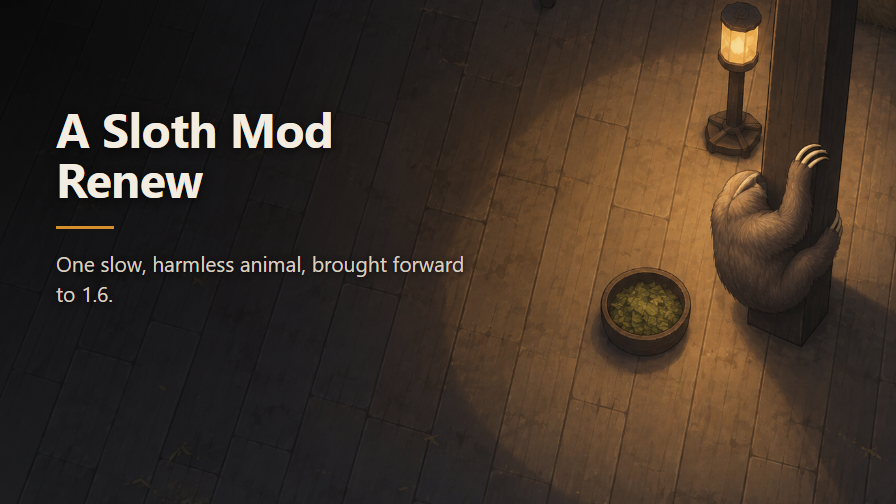
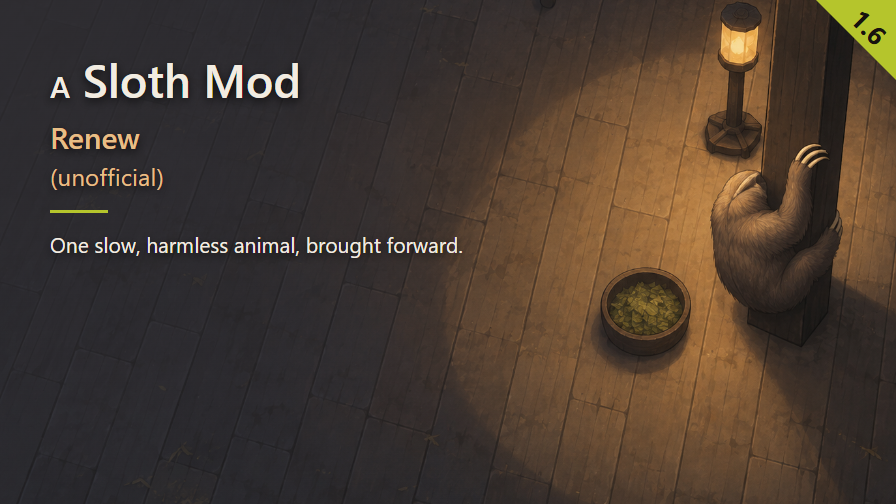
Recompose preview with title hierarchy and version badge

Changed region(s): [[0.0, 0.0, 0.5312, 0.625], [0.9062, 0.0, 1.0, 0.1488]]

diff --git a/Art/preview.html b/Art/preview.html
@@ -1,50 +1,34 @@
-<!doctype html><meta charset="utf-8">
-<!--
-  Engraving page for Mod/About/Preview.png, per STYLE_RIMWORLD.md.
-
-  Rasterised with headless Chrome at 896x504, so the glyphs are composed at final size and never
-  resampled. The background is Preview-source.png at full resolution, scaled here rather than
-  beforehand: starting from an already-reduced Preview.png would resample the picture twice.
-
-    "/c/Program Files/Google/Chrome/Application/chrome.exe" --headless --disable-gpu \
-      --hide-scrollbars --window-size=896,504 --screenshot=Mod/About/Preview.png Art/preview.html
-
-  The source is 1374x1145, close to 6:5, so the crop is the whole problem. Fitting 896x504 keeps
-  the full width and 773 source rows out of 1145, and the scene occupies 859 of them: from the
-  walking settler at 3% down to the food bowl at 78%. Something has to go. Clipping the settler
-  leaves a headless figure and clipping the sloth mutilates the subject, so the crop starts just
-  below the settler's feet and drops him entirely. The cost is the second vivid note, his red
-  coat: the lamp pool now carries the colour alone, which the style allows - two is a ceiling,
-  not a quota.
--->
+<!doctype html>
+<html lang="en"><head><meta charset="utf-8"><title>Sloth preview</title>
 <style>
-  * { margin:0; padding:0; box-sizing:border-box; }
-  html,body { width:896px; height:504px; overflow:hidden; background:#000; }
-  .stage { position:relative; width:896px; height:504px;
-           font-family:"Segoe UI",system-ui,sans-serif; }
-
-  /* Full width, vertical crop, anchored near the bottom of the croppable band: the visible rows
-     run from just under the settler's feet down to the empty floor below the bowl. */
-  .shot { position:absolute; inset:0; width:896px; height:504px;
-          object-fit:cover; object-position:50% 86%; }
-
-  /* Repository standard: radial darkening from the top-left, nil at 74%. The scene's own lamp
-     pool sits low and right, so the title lands on floor that was already the darkest thing. */
-  .veil { position:absolute; inset:0;
-    background: radial-gradient(circle at 0% 0%, rgba(6,5,4,.86) 0%, rgba(6,5,4,0) 74%); }
-
-  .text { position:absolute; left:56px; top:104px; width:430px; }
-  h1 { font-size:48px; line-height:1.04; font-weight:700; color:#f2ece1;
-       letter-spacing:-.5px; text-shadow:0 2px 10px rgba(0,0,0,.7); }
-  .rule { width:58px; height:3px; background:#D68F2C; margin:22px 0 20px; }
-  p { font-size:21px; line-height:1.42; color:#d8cfc0; text-shadow:0 1px 6px rgba(0,0,0,.75); }
-</style>
-<div class="stage">
-  <img class="shot" src="Preview-source.png">
-  <div class="veil"></div>
-  <div class="text">
-    <h1>A Sloth Mod<br>Renew</h1>
-    <div class="rule"></div>
-    <p>One slow, harmless animal, brought forward to 1.6.</p>
-  </div>
-</div>
+*{margin:0;padding:0;box-sizing:border-box}
+html,body,.stage{width:896px;height:504px;overflow:hidden}
+.stage{position:relative;font-family:"Segoe UI",system-ui,sans-serif}
+.shot{position:absolute;inset:0;width:896px;height:504px;object-fit:cover;object-position:50% 86%}
+.veil{position:absolute;inset:0;background:radial-gradient(circle at 0% 0%,rgb(var(--veilRGB) / .86) 0%,rgb(var(--veilRGB) / 0) 74%)}
+.text{position:absolute;left:50px;top:54px;color:var(--inkPrimary);text-shadow:0 3px 10px rgba(0,0,0,.75)}
+h1{font-size:46px;font-weight:600;line-height:1.1;letter-spacing:0}
+h1 .link,h1 .suffix{font-size:.65em}
+h1 .suffix{color:var(--inkSecondary)}
+.tag{margin-top:8px;font-size:24px;font-weight:400;line-height:1.1;letter-spacing:.2px;color:var(--inkSecondary)}
+.rule{width:58px;height:3px;margin:20px 0 16px;background:var(--accent)}
+p{width:430px;font-size:21px;font-weight:400;line-height:1.45;letter-spacing:0}
+.badge{position:absolute;right:0;top:0;width:80px;height:80px;background:var(--accent);clip-path:polygon(0 0,100% 0,100% 100%)}
+.version{position:absolute;left:869px;top:27px;transform:translate(-50%,-50%) rotate(45deg);color:var(--badgeInk);font-size:26px;font-weight:700;line-height:1}
+</style></head><body><div class="stage">
+<img class="shot" src="Preview.png" alt=""><div class="veil"></div>
+<div class="text"><h1><span class="link">A</span> Sloth Mod<br><span class="suffix">Renew</span></h1><div class="tag">(unofficial)</div><div class="rule"></div><p>One slow, harmless animal, brought forward.</p></div>
+<div class="badge"></div><div class="version"></div>
+</div><script>
+window.previewReady=(async()=>{
+const palette=await(await fetch('preview-palette.json')).json();
+for(const [key,value] of Object.entries(palette))document.documentElement.style.setProperty('--'+key,value);
+document.documentElement.style.setProperty('--veilRGB',palette.veil.match(/\w\w/g).map(x=>parseInt(x,16)).join(' '));
+const xml=new DOMParser().parseFromString(await(await fetch('../Mod/About/About.xml')).text(),'application/xml');
+const versions=[...xml.querySelectorAll('supportedVersions li')].map(x=>x.textContent.trim()).filter(x=>/^\d+\.\d+(\.\d+)?$/.test(x));
+versions.sort((a,b)=>{const aa=a.split('.').map(Number),bb=b.split('.').map(Number);for(let i=0;i<Math.max(aa.length,bb.length);i++){const d=(aa[i]||0)-(bb[i]||0);if(d)return d;}return 0;});
+if(!versions.length)throw Error('No stable supported version');
+document.querySelector('.version').textContent=versions.at(-1);
+await document.fonts.ready;await document.querySelector('.shot').decode();
+})();
+</script></body></html>

diff --git a/STATUS.md b/STATUS.md
@@ -128,3 +128,37 @@ The continuation statement in README and About.xml permits updating and publishi
 continuation if the maintainer does not respond within a reasonable time, with all credit
 preserved. This is the maintainer's stated condition, not a newly granted licence for the
 original author's assets. This audit does not assign MIT, CC or another licence to them.
+
+## Preview overlay recomposition — 2026-09-12
+
+- Source: `Art/Preview.png`, copied byte-for-byte from the existing text-free
+  `Art/Preview-source.png`. The illustration was retained, not replaced; the original
+  full-resolution file remains available at its existing path. The crop remains at 50% 86%.
+- Composition: `Art/preview.html`; sole colour reference: `Art/preview-palette.json`.
+  Rebuild and checks: `Art/render-preview.cjs` (Node with playwright and sharp, installed
+  Chrome). The HTML loads the palette and reads the highest stable supported version from
+  the shipped `Mod/About/About.xml`; this currently produces the 1.6 badge.
+- Palette rationale: the veil comes from the broad cool, shadowed plank-floor surface.
+  The vivid accent follows the olive-green food in the sloth bowl, with saturation and
+  lightness increased for the rule and badge. This significant feeding detail supplies a
+  yellow-green family distinct from the dominant ochre of the wood and fur. The secondary ink follows the dominant
+  ochre wood-and-fur family, brightened for contrast; it is not an average pixel colour.
+- The title retains its wording; the summary now reads "One slow, harmless animal, brought forward."
+  The version appears only in the badge. Strong title words, the reduced article and the summary share the primary ink; Renew
+  uses the secondary ink. The
+  unofficial tag is on its own line. Position, spacing, shadow and badge geometry follow
+  `../STYLE_RIMWORLD.md`; title size is 46 px.
+- Actual fonts verified through Chrome platform-font data: Segoe UI (including its Semibold
+  title and Bold badge faces). Capture waits for `document.fonts.ready` and image decoding.
+- Output: `Mod/About/Preview.png`, 896 x 504, 539157 bytes (below 900 kB).
+  Thumbnail: `Art/preview-268.png`. Both were visually inspected: no overlap or clipped text,
+  title and version identifiable, rule visible. The summary is intended for full-size viewing.
+- Contrast evidence: `Art/preview-background.png` and `Art/preview-qa.json`. Every background
+  pixel within each text rectangle was checked, without relying on text shadows. Minimum
+  ratios: title 9.11:1, summary 6.02:1, tag 5.61:1; badge digits 9.73:1 on its opaque fill.
+- No publication was performed.
+
+- Updated title hierarchy: A and Renew are direct spans at 65% (29.9 px), weight 600;
+  Renew uses secondary ink, A primary ink. Sloth Mod remains 46 px. Verified visually
+  at both sizes, including reduced words and accent separation. Additional minimum contrast:
+  A 11.47:1, Renew 7.23:1. No illustration replacement or publication.
